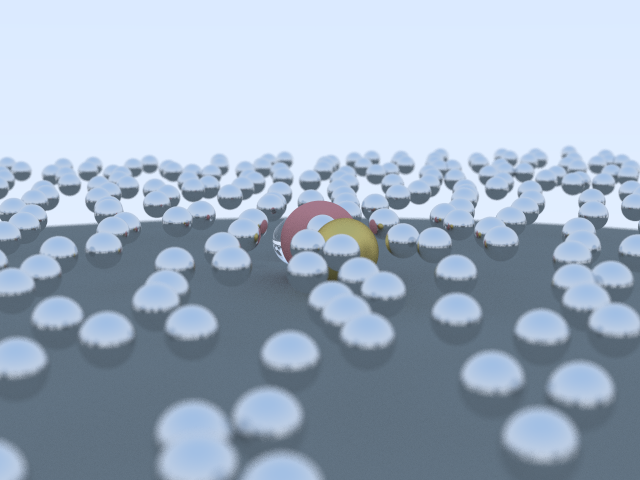
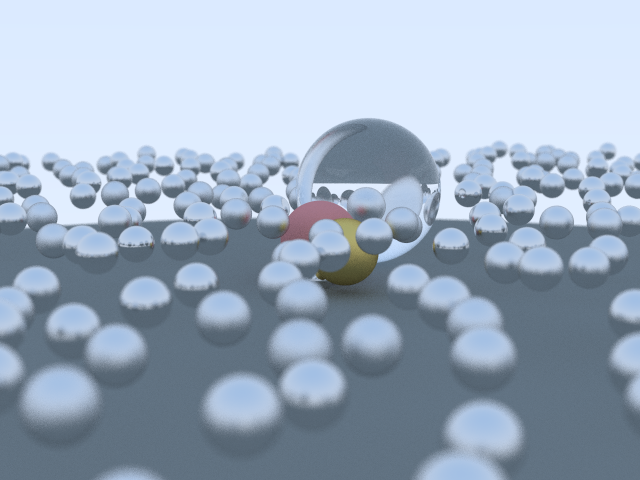
Update example.

diff --git a/src/main.c b/src/main.c
@@ -25,8 +25,8 @@ static const sphere sphere3 = {
     .radius = 0.4
 };
 static const sphere sphere4 = {
-    .center = {-1.0, -0.15, -1.0},
-    .radius = 0.35
+    .center = {-1.0, 0.5, -2.0},
+    .radius = 1
 };
 static const sphere sphere5 = {
     .center = {0.5, -0.4, -0.8},
@@ -90,13 +90,24 @@ vec3 ray_color(const ray *r, const scene *world, int depth) {
 static void random_scene(scene *world) {
     for (int a = -11; a < 11; a++) {
         for (int b = -11; b < 11; b++) {
-            vec3 center = {a + 0.9 * rand_double(), 0.2, b + 0.9 * rand_double()};
+            vec3 center = {
+                .x = a + 0.9 * rand_double(),
+                .y = 0.2 + 0.2 * rand_double(),
+                .z = b + 0.9 * rand_double()
+            };
 
             sphere *s = (sphere *)malloc(sizeof(sphere));
             s->center = center;
             s->radius = 0.2;
 
-            scene_add(world, SPHERE, s, &mat_metal_2);
+            material *mat = (material *)malloc(sizeof(material));
+            mat->type = METAL;
+            mat->fuzz = rand_double_clamp(0.0, 0.8);
+            mat->albedo.x = 0.8;
+            mat->albedo.y = 0.8;
+            mat->albedo.z = 0.8;
+
+            scene_add(world, SPHERE, s, mat);
         }
     }
 }

diff --git a/README.md b/README.md
@@ -4,3 +4,4 @@ A simple ray tracer written in C99.
 
 ![Example image](https://github.com/niho/ray/raw/master/example.png)
 
+Supports diffuse, metal and dielectric (water, glass, etc.) materials and depth of field. Spheres are the only supported geometry type.
